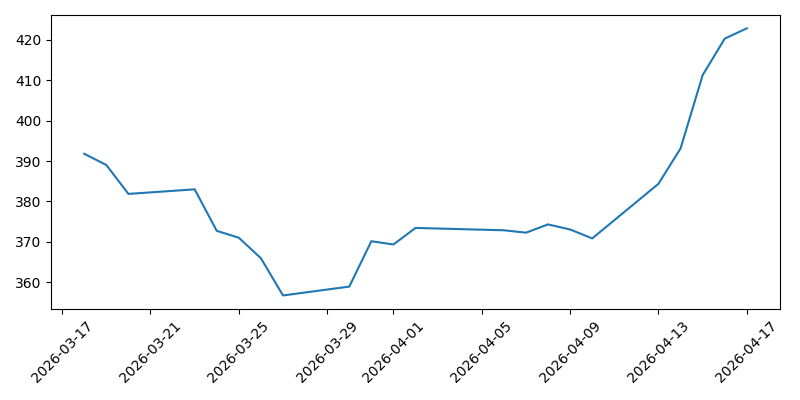
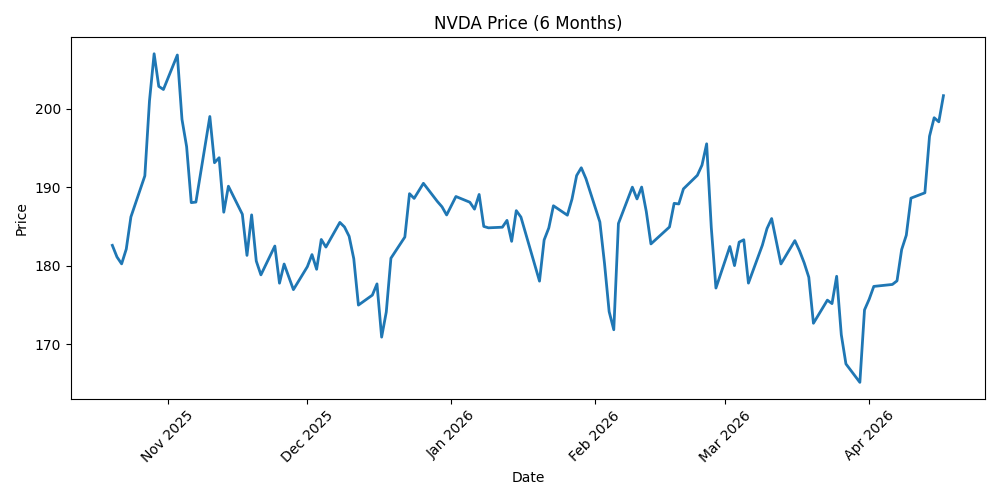
update dashboard UI + fix chart

diff --git a/templates/result.html b/templates/result.html
@@ -1,16 +1,47 @@
 <!DOCTYPE html>
 <html>
 <head>
-    <title>Result</title>
+    <title>Stock Result</title>
+    <style>
+        body {
+            font-family: Arial;
+            background: #111827;
+            color: white;
+            text-align: center;
+            padding: 40px;
+        }
+
+        .card {
+            background: #1f2937;
+            padding: 20px;
+            border-radius: 12px;
+            width: 60%;
+            margin: auto;
+        }
+
+        img {
+            margin-top: 20px;
+            width: 100%;
+            border-radius: 10px;
+        }
+
+        .green { color: #22c55e; }
+        .red { color: #ef4444; }
+    </style>
 </head>
 <body>
 
-    <h1>{{ symbol }} Stock Chart</h1>
+    <div class="card">
+        <h1>📊 {{ symbol }} Analysis</h1>
 
-    <img src="{{ url_for('static', filename='chart.png') }}">
+        <h2>Price: ${{ price }}</h2>
 
-    <br><br>
-    <a href="/">Go Back</a>
+        <h3 class="{{ 'green' if change >= 0 else 'red' }}">
+            Change: ${{ change }} ({{ percent }}%)
+        </h3>
+
+        <img src="/static/chart.png">
+    </div>
 
 </body>
 </html>

diff --git a/templates/index.html b/templates/index.html
@@ -2,14 +2,40 @@
 <html>
 <head>
     <title>Finance Dashboard</title>
+    <style>
+        body {
+            font-family: Arial;
+            background: #0f172a;
+            color: white;
+            text-align: center;
+            padding-top: 80px;
+        }
+
+        input, button {
+            padding: 10px;
+            font-size: 16px;
+            margin-top: 10px;
+        }
+
+        button {
+            background: #22c55e;
+            border: none;
+            color: white;
+            cursor: pointer;
+        }
+
+        button:hover {
+            background: #16a34a;
+        }
+    </style>
 </head>
 <body>
 
     <h1>📊 My Finance Dashboard</h1>
-    <p>Enter stock symbol (e.g. AAPL)</p>
 
-    <form action="/stock" method="post">
-        <input type="text" name="symbol" required>
+    <form method="POST" action="/stock">
+        <input name="symbol" placeholder="Enter stock symbol (AAPL, TSLA)" required>
+        <br>
         <button type="submit">Search</button>
     </form>
 

diff --git a/app.py b/app.py
@@ -1,43 +1,74 @@
 from flask import Flask, render_template, request
 import yfinance as yf
 import matplotlib
-matplotlib.use('Agg')  
+matplotlib.use('Agg')
 import matplotlib.pyplot as plt
+import matplotlib.dates as mdates
+import pandas as pd
 import os
 
 app = Flask(__name__)
 
+# ---------------- HOME ----------------
 @app.route("/")
 def home():
     return render_template("index.html")
 
+
+# ---------------- STOCK ANALYSIS ----------------
 @app.route("/stock", methods=["POST"])
 def stock():
-    symbol = request.form["symbol"]
+    symbol = request.form["symbol"].upper()
 
     data = yf.download(symbol, period="6mo")
 
     if data.empty:
         return "Invalid stock symbol"
 
-    # Create chart
-    plt.figure()
-    data["Close"].plot(title=f"{symbol} Stock Price")
+    # FIX MULTIINDEX ISSUE
+    if isinstance(data.columns, pd.MultiIndex):
+        data.columns = data.columns.get_level_values(0)
+
+    close = data["Close"].dropna()
+
+    latest_price = float(close.iloc[-1])
+    old_price = float(close.iloc[0])
+
+    change = latest_price - old_price
+    percent = (change / old_price) * 100
+
+    # ---------------- CHART ----------------
+    plt.figure(figsize=(10, 5))
+    plt.plot(close.index, close.values, linewidth=2)
+
+    plt.title(f"{symbol} Price (6 Months)")
+    plt.xlabel("Date")
+    plt.ylabel("Price")
+
+    plt.gca().xaxis.set_major_locator(mdates.MonthLocator())
+    plt.gca().xaxis.set_major_formatter(mdates.DateFormatter('%b %Y'))
 
     plt.xticks(rotation=45)
     plt.tight_layout()
 
-    # Ensure static folder exists
-    if not os.path.exists("static"):
-        os.makedirs("static")
+    # save chart
+    static_path = os.path.join(os.getcwd(), "static")
+    os.makedirs(static_path, exist_ok=True)
 
-    img_path = os.path.join("static", "chart.png")
+    img_path = os.path.join(static_path, "chart.png")
     plt.savefig(img_path)
     plt.close()
 
-    return render_template("result.html", symbol=symbol)
+    return render_template(
+        "result.html",
+        symbol=symbol,
+        price=round(latest_price, 2),
+        change=round(change, 2),
+        percent=round(percent, 2)
+    )
 
 
+# ---------------- RUN ----------------
 if __name__ == "__main__":
     port = int(os.environ.get("PORT", 5000))
     app.run(host="0.0.0.0", port=port)